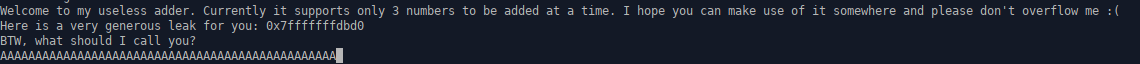
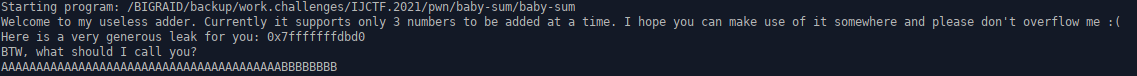
Added IJCTF.2021

Changed region(s): [[0.0, 0.0, 0.985, 0.75], [0.0, 0.75, 0.3078, 0.9688]]

diff --git a/IJCTF.2021/pwn/baby-sum/README.md b/IJCTF.2021/pwn/baby-sum/README.md
@@ -29,3 +29,38 @@ then let's see the calc() function and vuln() function that is called from calc(
 et the called vuln() function, that is obviously a format string vulnerability.. 
 
 ![](https://raw.githubusercontent.com/nobodyisnobody/write-ups/main/IJCTF.2021/pwn/baby-sum/imgs/vuln_rev.png)
+
+ok we can see now how the calc function operates,
+
+it reads 3 inputs (0,1,2) on stack with scanf('%8s', &num),  num is a pointer on stack to numbers[] array that is incremented at each turn..
+
+in theory the inputs are numbers, but as it uses scanf(%8s), we can send whatever we want, numbers, strings, except carriage return that will end the input.
+
+the function vuln is called on input, as printf(input)  and is obviously a format string vulnerability.. we can check it by sending %p for example as input..
+
+like always in format string vulns, I identify what is reachable on stack with various printf offsets (name are according to the calc() reverse above):
+
+here are some offsets..
+* 6  -->  address of start
+* 7  -->  address of numbers[0]
+* 8  --> next frame pointer (points to offset 16)
+* 9  --> return address of vuln() from calc() 
+* 10  --> numbers[0]     at [rbp-0x30]
+* 11  --> numbers[1]     at [rbp-0x28]
+* 12 --> sformat            at [rbp-0x20]    will be set to '%8s' at calc() beginning
+* 13  -->  sum variable , undefined at beginning of calc()... (can be set via welcome() function , qword at (name string + 0x28)
+* 14 -->  i variable    at [rbp-0x10]      incremented at each turn (0,1,2)
+* 15  --> num pointer  at [rbp-8]      incremented at each turn, point to &numbers[0] at beginning..
+* 16 --> next frame pointer (points to offset 20)
+* 17 --> return address from calc()
+
+so we quickly found that the undefined var (will be sum variable, later in calc()),  can be defined with the name input in welcome() function:
+
+let's try...
+
+![](https://raw.githubusercontent.com/nobodyisnobody/write-ups/main/IJCTF.2021/pwn/baby-sum/imgs/input1.png)
+
+ok it works, as you can see we, if we put a breakpoint to the printf in vuln() function we can see the 'BBBBBBBB' == 0x4242424242424242   in the 13th position reachable by printf... good...
+
+![](https://raw.githubusercontent.com/nobodyisnobody/write-ups/main/IJCTF.2021/pwn/baby-sum/imgs/dump1.png)
+
